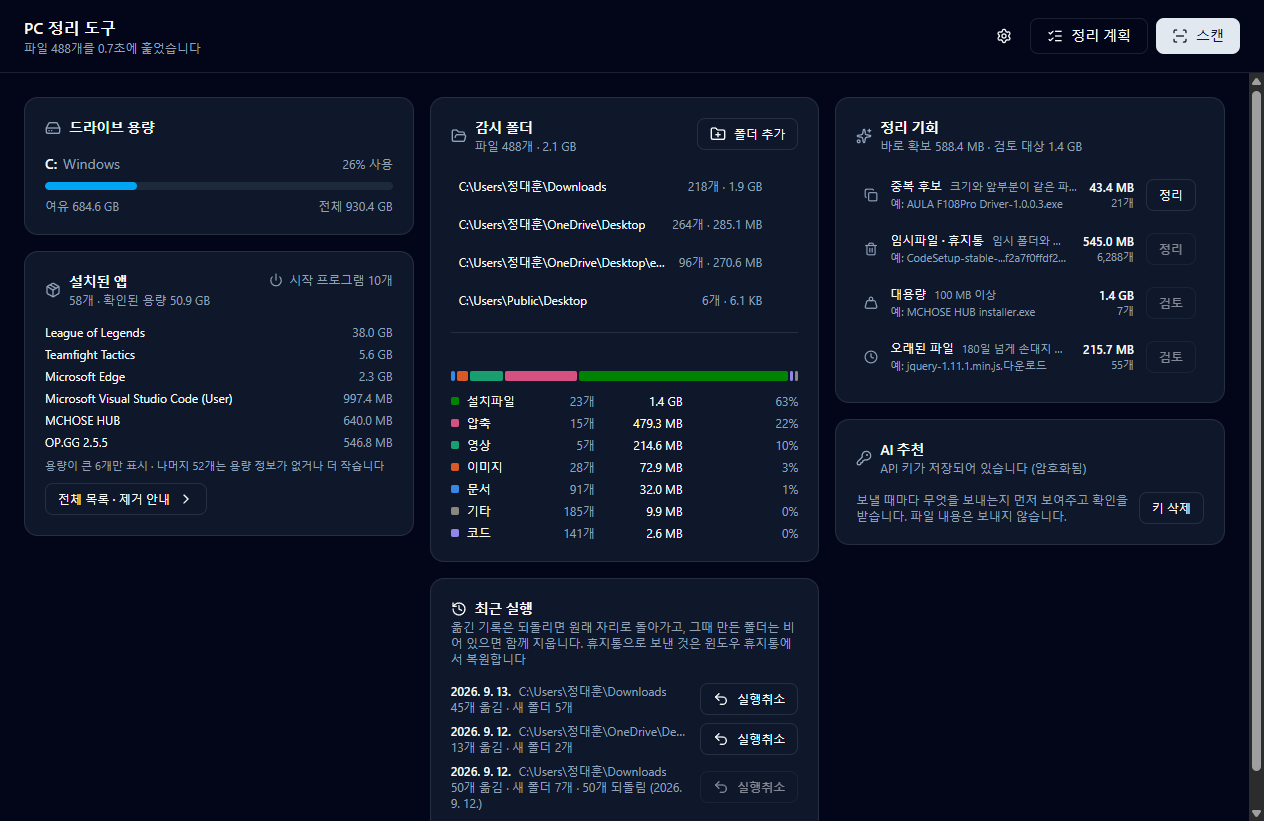
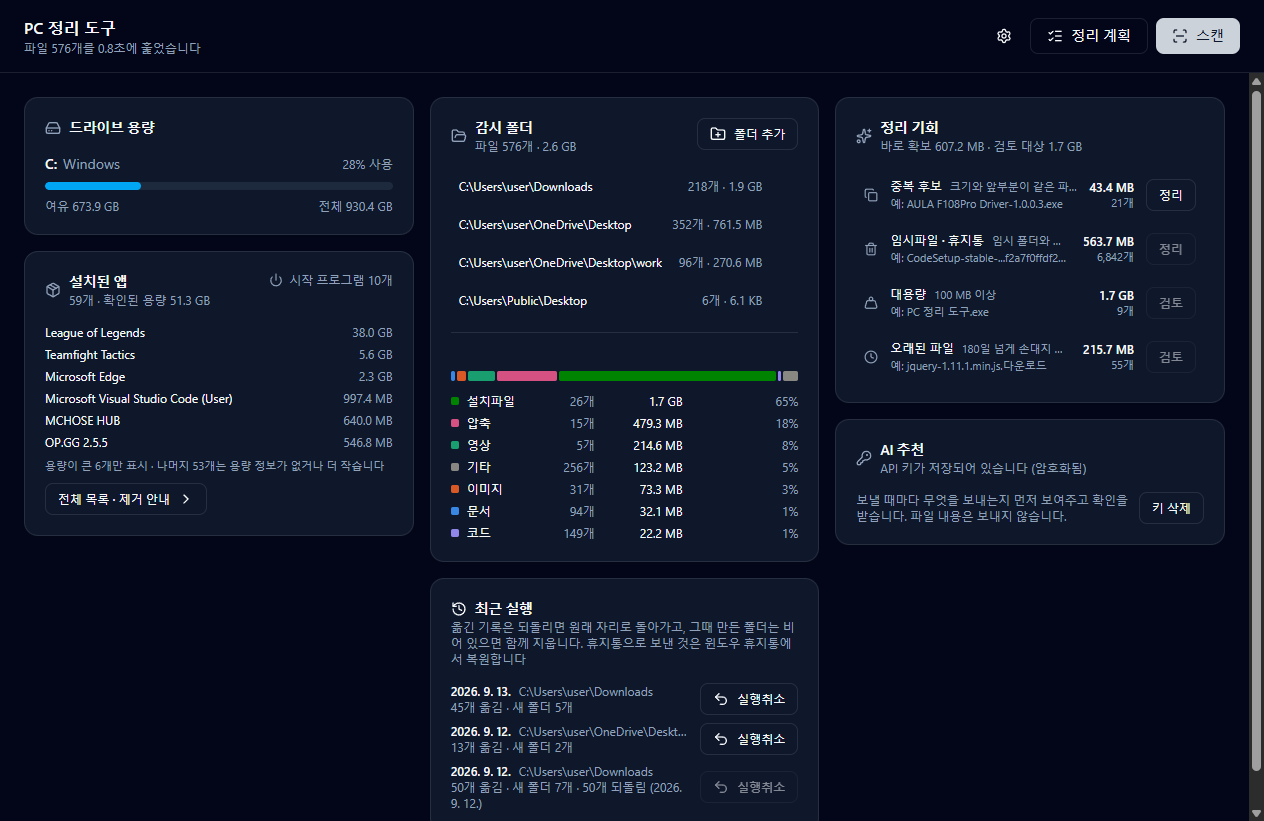
배포 준비: MIT 라이선스, 0.1.0 릴리스 노트, README 설치 안내, 사용자 이름 가린 스크린샷
- LICENSE(MIT)와 package.json license 필드. 파일 이름이 확장자 없는 LICENSE 라
  electron-builder 의 NSIS 라이선스 페이지에는 걸리지 않는다 (설치 화면 그대로)
- docs/release-notes-0.1.0.md: 하는 일 · 영구 삭제 없음 · AI 는 선택 사항 · 설치 위치 ·
  SmartScreen/스마트 앱 컨트롤 안내. gh release create --notes-file 이 쓴다
- README 에 "설치" 절(Releases 링크 · 서명 없음 경고 안내)과 "라이선스" 절
- docs/screenshot.png 를 다시 찍었다. Playwright 로 띄워 찍기 직전 DOM 텍스트의 윈도우
  사용자 이름을 user 로 치환 — 앱 코드에는 가리는 기능이 없다
- docs/release.md 의 미결 3건을 정한 것으로 갱신

Claude-Session: https://claude.ai/code/session_016NZDFMbizRqi2N267G5dbr

diff --git a/docs/release-notes-0.1.0.md b/docs/release-notes-0.1.0.md
@@ -1,0 +1,46 @@
+내 컴퓨터의 파일·폴더·설치된 앱 현황을 한 화면에서 보고, 정리할 거리를 찾아주는 Windows 데스크톱 앱입니다. 첫 공개 버전입니다.
+
+## 무엇을 하나
+
+- **드라이브 용량** — 로컬 드라이브별 사용량과 여유 공간
+- **감시 폴더** — 다운로드·바탕화면 등 등록한 폴더의 파일 수·용량·종류별 구성
+- **정리 기회** — 중복 후보, 임시파일·휴지통, 대용량, 오래된 파일
+- **정리 계획** — 감시 폴더 바로 아래의 파일·폴더를 칸반 보드에서 폴더별로 나누고, **실행**하면 그대로 옮깁니다. 실행 기록이 남아 **실행취소**로 되돌릴 수 있습니다
+- **중복 후보 정리** — 크기와 앞부분이 같은 파일 그룹에서 남길 하나를 고르면 나머지를 **윈도우 휴지통**으로 보냅니다
+- **설치된 앱** — 설치 프로그램 목록과 용량을 검색·정렬로 훑어보고 윈도우 설정(앱 > 설치된 앱)으로 넘어갑니다. 제거는 거기서 직접 합니다
+- **설정** — 테마(어둡게·밝게), 확장자 분류 규칙, 대용량·오래된 파일의 판정 기준
+
+## 영구 삭제는 없습니다
+
+이 앱이 사용자 파일에 하는 일은 **옮기기**와 **휴지통으로 보내기** 둘뿐입니다. 파일을 영구 삭제하는 코드는 어디에도 없습니다.
+
+- 옮긴 것은 실행취소로 원래 자리에 돌아갑니다. 이름을 바꾸지 않고, 덮어쓰지 않고, 다른 드라이브로 복사하지 않습니다. 옮기기 전 점검에서 하나라도 걸리면 아무것도 옮기지 않습니다.
+- 휴지통으로 보내는 건 중복 후보뿐이고, 보내기 전에 그룹의 파일 전체를 다시 비교합니다. 드라이브의 휴지통 최대 크기보다 큰 파일이나 '휴지통을 쓰지 않음' 드라이브처럼 윈도우가 휴지통을 거치지 않고 지워 버리는 경우는 보내지 않습니다. 되돌리기는 윈도우 휴지통에서 복원합니다.
+- OneDrive 온라인 전용 파일의 내용은 읽지 않습니다(읽으면 자동 다운로드가 시작됩니다). 심볼릭 링크·정션은 따라가지 않습니다.
+
+## AI 추천은 선택 사항입니다
+
+Anthropic API 키를 넣으면 파일 **이름·종류·크기·수정일만** 보내 의미로 묶은 폴더를 제안받습니다. 키가 없어도 나머지 기능은 전부 됩니다.
+
+- 보내기 전에 무엇을 보내는지 먼저 보여주고 확인을 받습니다. 파일 내용·전체 경로·사용자 이름은 보내지 않습니다.
+- AI는 이동·분류만 제안합니다. 삭제는 제안할 수 없습니다.
+- 키는 Windows DPAPI로 암호화해 저장되고 화면으로 다시 돌아오지 않습니다.
+- 네트워크로 나가는 경로는 이것 하나뿐입니다. 자동 업데이트·사용 통계 전송은 없습니다.
+
+## 설치
+
+`pc-organizer-setup-0.1.0.exe`를 내려받아 실행합니다. Windows 10/11 64비트.
+
+- 관리자 권한 없이 현재 사용자 폴더(`%LOCALAPPDATA%\Programs\pc-organizer`)에 설치되고, 시작 메뉴·바탕화면 바로가기를 만듭니다.
+- 설정·API 키·실행 기록은 `%APPDATA%\pc-organizer`에 저장됩니다.
+- 제거는 윈도우 설정 > 앱 > 설치된 앱에서 "PC 정리 도구"를 고릅니다.
+
+### 실행할 때 뜨는 경고
+
+설치 파일에 **코드 서명이 없습니다.** 그래서:
+
+- **SmartScreen** — "Windows의 PC 보호" 창이 뜹니다. **추가 정보 → 실행**으로 넘어갑니다.
+- **스마트 앱 컨트롤이 켜진 PC**(Windows 11 새 설치 기본)에서는 우회 버튼 없이 **막힙니다.** 이 경우 실행할 수 없습니다.
+- 브라우저 다운로드에도 "일반적으로 다운로드되지 않음" 경고가 붙을 수 있습니다.
+
+소스는 이 저장소에 있고, 라이선스는 MIT입니다.

diff --git a/README.md b/README.md
@@ -40,6 +40,14 @@
 영구 삭제 호출(`unlink`·`rm`·휴지통 비우기)은 코드 어디에도 없다. 되돌릴 수 없는 동작은 버그 하나가
 곧바로 사용자 파일 손실이 되기 때문이다.
 
+## 설치
+
+[Releases](https://github.com/Jung-DaeHun/pc-organizer/releases/latest) 에서 `pc-organizer-setup-<버전>.exe` 를 받아
+실행한다. Windows 10/11 64비트. 관리자 권한 없이 현재 사용자 폴더에 설치된다.
+
+설치 파일에 **코드 서명이 없어** 실행할 때 경고가 뜬다. SmartScreen 의 "Windows 의 PC 보호" 창은 **추가 정보 → 실행**으로
+넘어간다. **스마트 앱 컨트롤이 켜진 PC**(Windows 11 새 설치 기본)에서는 우회 버튼 없이 막히므로 실행할 수 없다.
+
 ## 실행
 
 ```bash
@@ -56,7 +64,7 @@ npm run package    # 설치 파일 생성 (release/pc-organizer-setup-<버전>.e
 설치 파일은 NSIS(설치 폴더 선택 가능, 현재 사용자 전용, 관리자 권한 없음)다. 설치본과 `npm run dev` 는 같은
 `%APPDATA%\pc-organizer` 를 쓴다(설정·API 키·저널이 공유된다).
 
-배포(GitHub Release 에 설치 파일 첨부)와 받는 쪽이 겪는 SmartScreen 경고, 올리기 전 미결 사항은 `docs/release.md` 에 있다.
+배포 절차(GitHub Release 에 설치 파일 첨부)는 `docs/release.md`, 버전별 릴리스 노트는 `docs/release-notes-<버전>.md` 에 있다.
 
 ### 아이콘
 
@@ -222,3 +230,7 @@ SDK import는 `lib/anthropic.ts` 한 곳으로 ESLint가 제한하고, 서비스
 
 Electron 44 · React 19 · TypeScript · Vite 7 (electron-vite) · Tailwind CSS 4 · Vitest ·
 Anthropic SDK + zod (AI 추천, main 프로세스에서만)
+
+## 라이선스
+
+MIT — `LICENSE` 참고.
